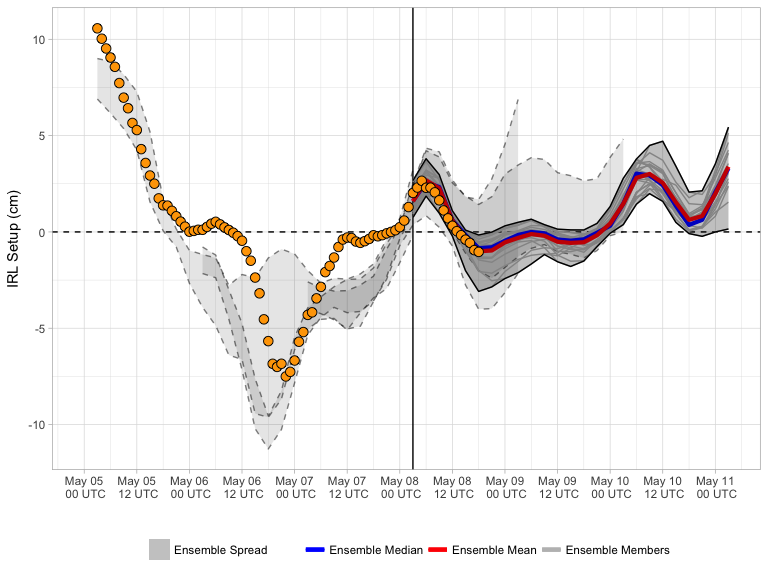
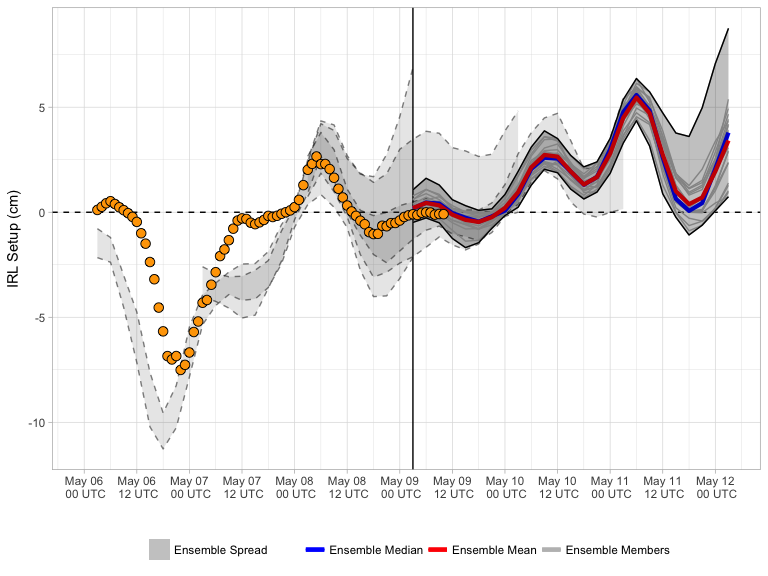
20170509 forecast update

diff --git a/docs/README.md b/docs/README.md
@@ -12,7 +12,4 @@ Understanding the IRL and its current deteriorating state is an area of active r
 ## This work
 At the Florida Institute of Technology, Meteorology Professor Dr. Steven Lazarus and Ocean Engineering Professor Dr. Robert Weaver received a [NOAA grant](https://newsroom.fit.edu/2014/02/27/faculty-members-earn-453000-noaa-grant-to-improve-model-simulations-for-bodies-of-water-including-indian-river-lagoon/) to study the effects of high-impact meteorological events (e.g., hurricanes and mid-latitude cylones) on the IRL's wave and circulation properties. As part of this research, Ph. D. candidate Jeff Colvin developed a regression-based approach to forecasting the difference in water elevation between two locations in the IRL. Fellow Ph. D. candidate Bryan Holman used his knowledge of operational ensemble systems and extended Jeff's approach to provide probabilistic real-time forecasts of the elevation change between these two points. This repository houses the code that creates these forecasts.
 
-The operational forecasts this project creates are viewable at [irlsetup.github.io](https://irlsetup.github.io). More information about these forecasts can be found at [irlsetup.github.io/about](https://irlsetup.github.io/about).
-
-## Contact
-This project is operated and maintained by [Bryan Holman](https://github.com/bhlmn). The best way to contact him is by email: [bholman2013 (at) my (dot) fit (dot) edu](mailto:bholman2013@my.fit.edu).
+The operational forecasts this project creates are viewable at [bhlmn.github.io/IRLSetup](https://bhlmn.github.io/IRLSetup/).

diff --git a/docs/index.md b/docs/index.md
@@ -3,7 +3,7 @@ Current Forecast
 
 [![](img/raw_setup.png)](https://bhlmn.github.io/IRLSetup/img/raw_setup.png)
 
-> Forecast valid 2017-05-08 14:28:40.
+> Forecast valid 2017-05-09 06:45:09.
 
 Explanation
 -----------
@@ -15,7 +15,7 @@ water elevation in the northern IRL (near Titusville), and negative
 setup indicates the increase elevation in the southern IRL (near
 Sebastian). The x-axis displays the date and time in UTC. The solid
 vertical line represents the beginning of the most recent ensemble
-forecast (currently 2017-05-07 18:00:00). For this most recent forecast,
+forecast (currently 2017-05-08 18:00:00). For this most recent forecast,
 the ensemble spread (grey shading) is bound by solid black lines, with
 individual members represented by faint grey lines. The ensemble mean
 and median for this are represented by the red and blue curves,
